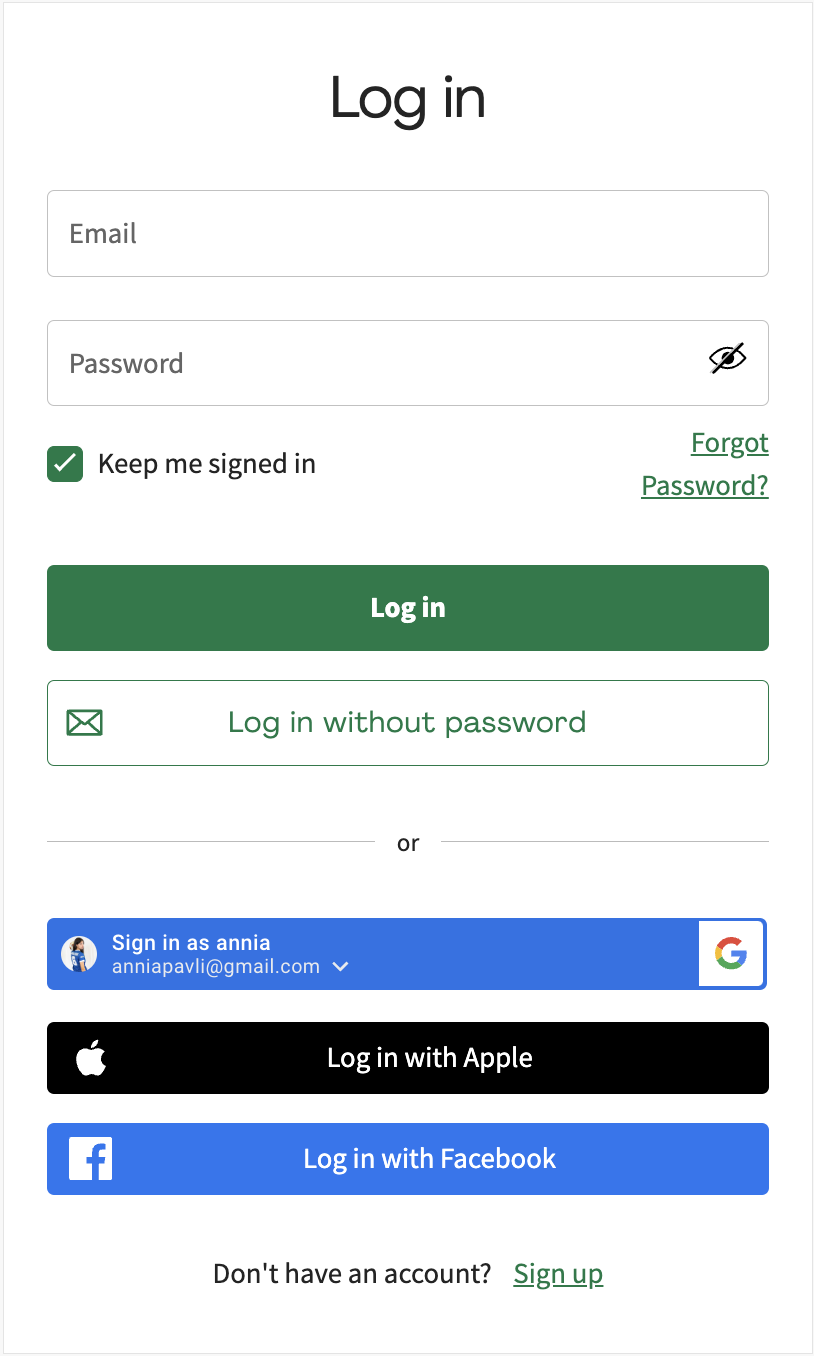
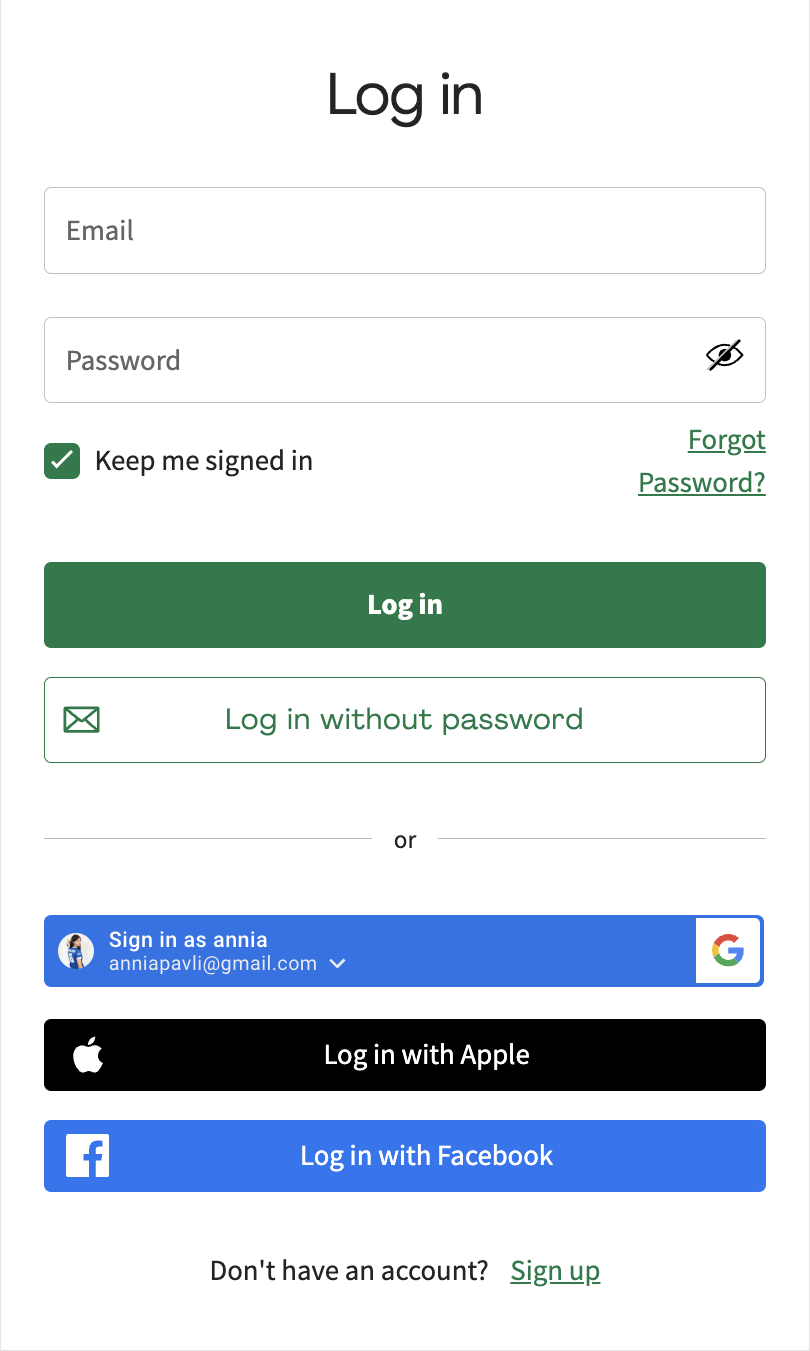
hellofresh1.0

diff --git a/helloFresh1/css/style.css b/helloFresh1/css/style.css
@@ -1,18 +1,26 @@
-.body {
-  margin: 0;
-  padding: 0;
-}
+
 
 .center {
   position: absolute;
   padding: 0;
   margin: auto;
   width: 400px;
-  top: 25px;
+  top: 26px;
   bottom: 0;
   left: 0;
   right:0;
-  box-shadow: 0 0px 0px 0 rgba(0, 0, 0, 0.2), 0 2px 0px 0 rgba(0, 0, 0, 0.19);
+}
+
+.shadow {
+  position: absolute;
+  padding: 0;
+  margin: auto;
+  width: 400px;
+  top: 80px;
+  bottom: 30px;
+  left: 0;
+  right:0;
+box-shadow: rgba(0, 0, 0, 0.56) 0px 22px 70px 4px;
 }
 
 .topimage {
@@ -30,7 +38,6 @@ body {
   background-image: url('https://cdn.hellofresh.com/landing-pages/Pages/hf-recipe-collection.jpg');
   background-repeat: no-repeat;
   background-attachment: fixed;  
-  background-size: cover;
-}
+
 
 

diff --git a/helloFresh1/index.html b/helloFresh1/index.html
@@ -20,6 +20,9 @@
 	 	<img src="Images/banner.jpg" class="topimage">
 	</div> 	
 
+	<div class="shadow">
+    </div>
+
 
 </body>
 
